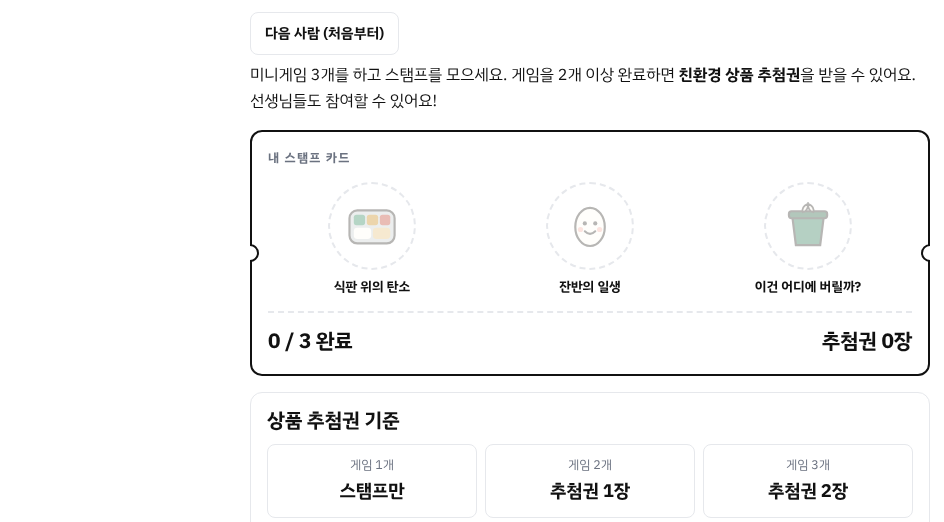
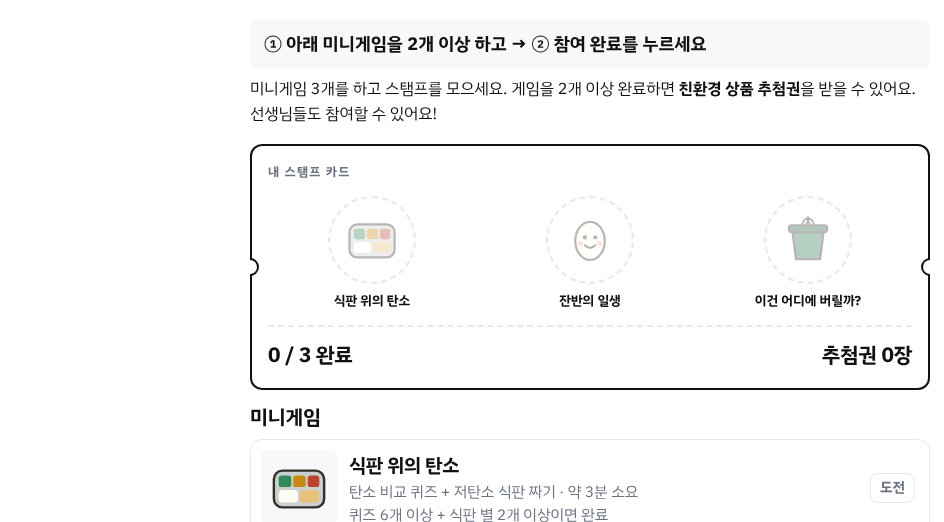
녹색 급식 챌린지: 검토 결과 반영 (런타임 9 · 내용 6 · UX 11)
런타임
- 공용 테마의 hover 규칙이 투명 버튼(처음부터 다시·이야기의 다른 선택지)의 글자를 안 보이게 하던 것
- 탄소 계량기 눈금(0·1.5 목표·3·6+)이 막대 채움 비율과 어긋나던 것 → 눈금을 절대 위치로
- 완료 화면에서 '다음 사람'에 자동 포커스되어 Enter 한 번에 초기화되던 것 → 제목에 포커스, 버튼은 두 번 눌러야 초기화
- 제출 시트·완료 화면이 열려 있을 때 뒤 화면으로 Tab 이 빠져나가던 것 (hub inert)
- 입력칸에서 Enter 로 다음 칸·제출, enterkeyhint, 입력 포커스 때 제출 버튼이 보이게 스크롤
- 학번 검증 4~6자리 → 5자리(안내 예시와 일치), 확인 코드에 날짜 포함
- 페이지 안 링크(#tray 등)는 이력을 쌓지 않아 뒤로 가기로 이전 게임에 되돌아가지 않음

내용
- 사료 엔딩 '돼지의 한 끼' → '닭의 한 끼': 2019년 아프리카돼지열병 이후 남은 음식물의 돼지 급여 금지(현재는 닭·오리 사료) 반영, 그림·말풍선·설명 교체
- 초코바 수치는 다크 초콜릿 기준임을 표기, 새우 양식의 전력 사용 설명 추가, 소고기 각주에 한우 보충
- 분리배출: 티백(부직포)·커피 찌꺼기·귤 껍질은 지역에 따라 다를 수 있음을 표기, 김치 문항에 장류는 일반쓰레기 추가

UX (급식실 앞 현장용)
- 머리에 '① 미니게임 2개 이상 → ② 참여 완료' 안내, 미니게임 섹션을 추첨권 기준보다 위로, 감독용 '다음 사람' 버튼은 맨 아래로
- 2개 완료하면 토스트가 다음 할 일을 알려 주고 화면 아래에 '참여 완료' 고정 버튼
- 식판 결과가 미달이면 퀴즈까지 처음부터 다시 하던 것 → '식판만 다시 짜기' 버튼, 어떤 메뉴를 바꿀지 안내
- 이야기 게임: 엔딩 뒤 매번 배식대부터 다시 가지 않고 '다른 처리 시설 골라 보기'로 바로 이동
- 완료 화면: 확인 코드를 큰 글씨로 따로, '다음 사람'은 보조 버튼으로 맨 아래, '학번·이름 고치기'를 위로
- '· 3분/2분' 은 제한 시간으로 오해되지 않게 '약 3분 소요', 노랑 계열 글자색 대비 보강(#9A6700), 카드 보조 설명 글자 키움
- 제출 시트를 위쪽 정렬(휴대폰 키보드가 올라와도 제출 버튼이 보이게), 썸네일 재캡처, CLAUDE.md 갱신

Claude-Session: https://claude.ai/code/session_01YFfKQGz49m48oPbyrKRZ81

diff --git a/CLAUDE.md b/CLAUDE.md
@@ -5,6 +5,7 @@
 ## 최근 작업 상태 (2026-11-23 기준, 새 세션은 여기부터 읽기)
 
 - 2026-11-23: **'환경' 과목 추가** + 송다혜 선생님 **녹색 급식 챌린지**(`labs/environment/green-lunch-challenge.html`, id `green-lunch-challenge`) 등록. 과목을 추가할 때 고친 곳: `data/labs.js` `subjects[]`(id `environment`, 색 #0E9AA7, 설명) · `assets/css/site.css`(`--env`, `[data-subject="environment"]`) · `assets/js/tools.js` `TABS`(도구 패널 '환경' 탭) · `data/reference/environment.js`(부록: 식품 탄소 배출량·음식물 쓰레기·헷갈리는 분리배출·탄소중립 용어) · `index.html`/`lab.html` 의 reference 스크립트 · 사이트 태그라인/메타 설명 · `docs/DESIGN.md` 색 표. 나머지(내비 탭·과목 페이지·카드)는 `subjects[]` 에서 자동으로 나옴.
+- 녹색 급식 챌린지 검토 반영(런타임 9·내용 6·UX 11)은 `git log -1 --grep='검토 결과 반영' -- labs/environment/green-lunch-challenge.html` 커밋 메시지 참고. 내용 결정: '돼지의 한 끼' 사료 엔딩은 2019년 아프리카돼지열병 이후 남은 음식물의 돼지 급여가 금지되어 **'닭의 한 끼'**로 바꾸고 그림(닭)·설명을 교체. 학번은 5자리(예 10305)로 검증(학교 학번 체계가 다르면 `/^\d{5}$/` 수정). 확인 코드에 날짜를 섞음. 현장 UX: 머리에 ①② 안내, 미니게임 섹션을 추첨권 기준보다 위로, 2개 완료 시 화면 아래 고정 '참여 완료' 버튼, 완료 화면의 '다음 사람'은 감독용 2단계(두 번 누름), 식판 결과에서 '식판만 다시 짜기', 이야기 엔딩 뒤 '다른 처리 시설 골라 보기'.
 - 녹색 급식 챌린지는 급식실 앞 현장 참여용(휴대폰·태블릿) 화면이라 540px 설계를 680px 로만 넓혔고, 미니게임 3개는 자체 색을 유지한 채 글꼴·바탕·버튼만 공용 테마로. 게임 전환은 자체 해시(#tray·#life·#sort)라 뷰어의 `#embed` 는 `restart()` 에서 `#embed` 를 붙여 새로고침하도록 고침. 단원은 2022 융합 선택 '기후변화와 환경생태 · 기후위기에 대응하는 우리의 활동'(추정), 전교생 대상이라 grade 고1~고3.
 
 - 2026-11-18: 송다혜 선생님 **광합성 한눈에 보기**(`photosynthesis-overview`) · **광합성 단계별 탐험**(`photosynthesis-steps`) 등록·검토·배포 (생명과학, '세포와 물질대사 · 세포호흡과 광합성'). 세포호흡 두 파일과 같은 생성기로 만든 자매 파일이라 머리 정리·테마 덮어쓰기 블록을 그대로 재사용했고(`.plate` 비율 1000/620·1000/600), `localStorage['still']` 도 공유. 검토 반영은 `git log --grep='검토 결과 반영' -- labs/biology/photosynthesis-*.html` 커밋 메시지 참고 (한눈에 보기 런타임 6·교과 6·UX 11, 단계별 탐험 런타임 9·교과 8·UX 10). 교과 결정: '암반응'은 옛 이름으로만 언급(어두울 때 일어난다는 뜻이 아님을 명시), 광계는 '명반응의 첫 부분'으로 서술, 물의 광분해 교과서식(2H₂O → 4H⁺ + 4e⁻ + O₂)은 교과서 설명에 괄호로 보탬, 흡수스펙트럼에 카로티노이드 곡선 추가. 두 파일 모두 '움직임 끄기' 때 `loop()` 의 `still` 인자로 멈춘 자리 그림을 남기게 했고, 명반응 주황(`--st2`)은 흰 글자 대비 때문에 #B87400 으로 어둡게 함.
